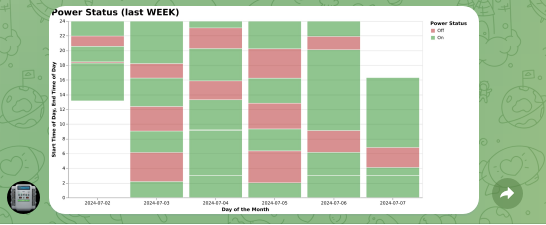
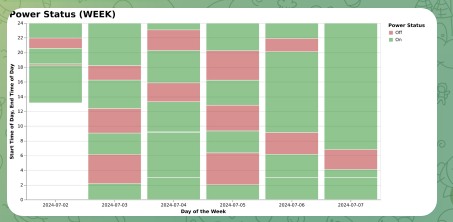
prettify graph

diff --git a/src/services/history/history-plotter.js b/src/services/history/history-plotter.js
@@ -7,6 +7,7 @@ const {SAMPLE} = require('../../configs/history.config');
 const {getGraphPath} = require('../../utils/filesystem');
 const vegaSpecV5URL = 'file:///../resources/vega-spec-v5.json';
 
+const capitalize = (str) => str.charAt(0).toUpperCase() + str.slice(1);
 function createSpec(url, type) {
     return {
         "$schema": vegaSpecV5URL,
@@ -14,7 +15,7 @@ function createSpec(url, type) {
             url,
         },
         "title": {
-            "text": `Power Status (last ${type.toUpperCase()})`,
+            "text": `Power Status (${type.toUpperCase()})`,
             "fontSize": 20,
             "fontWeight": "bold",
             "anchor": "start"
@@ -49,7 +50,7 @@ function createSpec(url, type) {
             "x": {
                 "field": "dayOfMonth",
                 "type": "nominal",
-                "title": "Day of the Month",
+                "title": `Day of the ${capitalize(type)}`,
                 "sort": "ascending",
                 "axis": {
                     "labelAngle": type === SAMPLE.WEEK ? 0 : 45,
